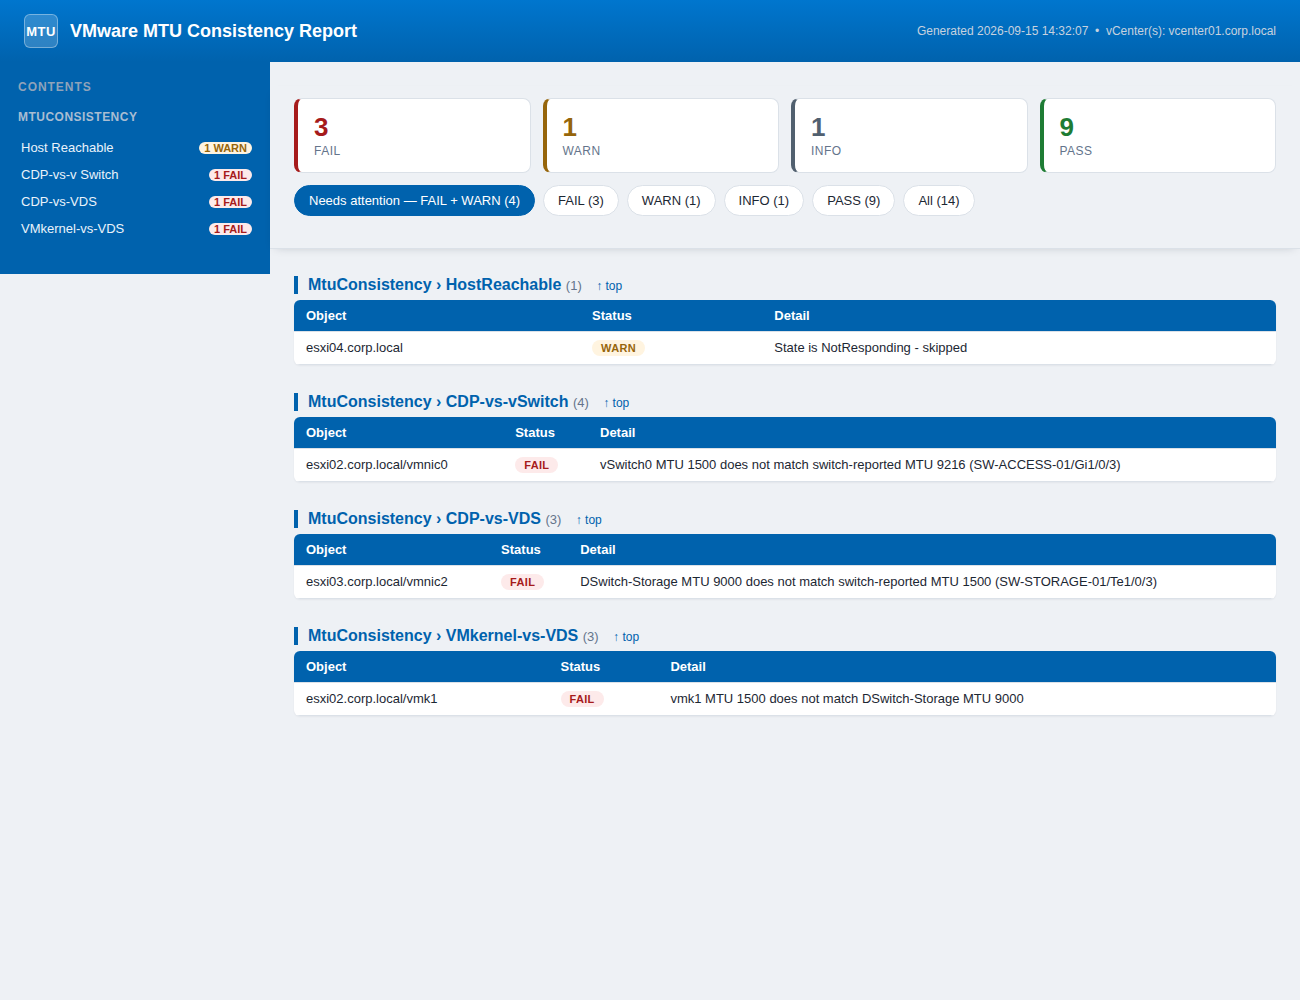
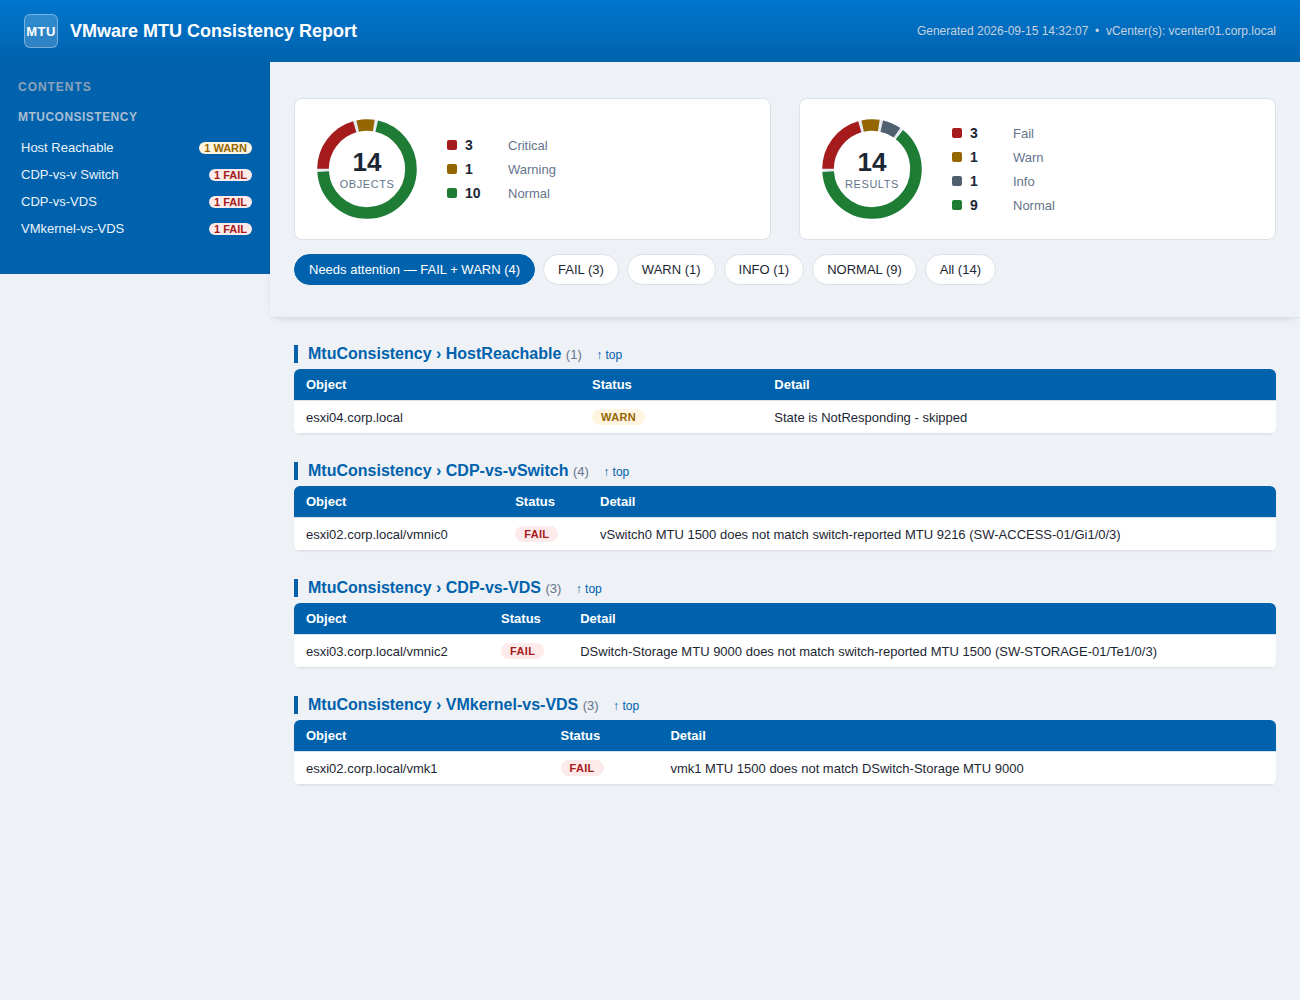
Summary rings, and PASS becomes NORMAL
Mirrors the OpenManage Enterprise inventory view: two rings at the top of the
report instead of four flat tiles.

  Objects  every host, VM, datastore and cluster rolled up to one health
           state - Critical if anything about it fails, Warning if anything
           warns, Normal otherwise
  Results  every row by severity

Each ring's legend carries the exact numbers and is clickable, so it doubles
as the severity filter exactly as the tiles did. Three object buckets, not
four: an "Unknown" slice would only ever catch an object whose every row was
informational, which reads as an empty mystery rather than as information.

PASS is now NORMAL throughout - status value, badge, filter button, CSV
column. "Normal" describes a state; "Pass" describes a test result, and this
is a report about the state of an estate. This changes the CSV, so anything
trending on the old value needs updating. The test runner's own PASS/FAIL
output is untouched - that is the harness reporting on itself, not a report
status, and conflating the two was the trap in this rename.

--- Colour, measured ----------------------------------------------------

--warn moves #96650b -> #946600. Against --crit the old pair measured
deltaE 14.9 for normal vision, under the 15 floor - "hard to tell apart even
with full colour vision" - which did not matter much on separated badges but
does when the two sit adjacent on a ring. The new value clears it at 15.4
[…]

Changed region(s): [[0.2154, 0.248, 0.9846, 0.775], [0.2154, 0.093, 0.4615, 0.217], [0.4923, 0.093, 0.8308, 0.217]]

diff --git a/README.md b/README.md
@@ -75,7 +75,7 @@ is supposed to have and each host's actual settings are compared against it in
 
 Either one is a `WARN`, and the detail shows what the host actually has *and*
 what was expected, side by side, so the fix is obvious from the report alone.
-An exact match is a `PASS` reading `(matches expected baseline)`. With a baseline
+An exact match is a `NORMAL` reading `(matches expected baseline)`. With a baseline
 supplied, a host with **nothing** configured is a `FAIL` rather than a `WARN` —
 you've declared a collector is required, and the requirement is entirely unmet.
 
@@ -145,7 +145,7 @@ does and what leaving it off costs you, rather than reporting a bare acronym:
   power-ons that would eat into that reserve. `WARN` when disabled, because HA is
   then enabled but reserving nothing — VMs from a failed host may fail to restart
   if the remaining hosts are already committed. This is an easy one to miss: HA
-  reads as `PASS` while the capacity to honor it isn't guaranteed.
+  reads as `NORMAL` while the capacity to honor it isn't guaranteed.
 - **DRS** (Distributed Resource Scheduler) — balances VM load across hosts using
   vMotion. `WARN` when disabled, and a separate `DRSAutomation` `WARN` when DRS is
   on but not `FullyAutomated`, since it then only *recommends* migrations and
@@ -153,7 +153,7 @@ does and what leaving it off costs you, rather than reporting a bare acronym:
 - **Host count** — `WARN` on a single-host cluster, where HA has nowhere to fail over.
 
 **EVC (Enhanced vMotion Compatibility).** Reported as `INFO`, not a finding.
-`PASS` with the cluster's current mode (e.g. `intel-broadwell`) when one is set;
+`NORMAL` with the cluster's current mode (e.g. `intel-broadwell`) when one is set;
 `INFO` when it isn't. EVC masks each host's CPU down to a common baseline
 instruction set so a running VM can vMotion between hosts with different CPU
 generations without the guest OS seeing the CPU change mid-flight — without it,
@@ -203,7 +203,7 @@ they cost no extra API calls:
 **Local account password expiration.** Reads `Security.PasswordMaxDays`, the
 host-wide maximum age a local password may reach. `WARN` at `99999` — VMware's
 shipped default and its "never expires" sentinel rather than an age anyone chose
-— or above `-PasswordMaxDaysWarn` (default 365); `PASS` below that; `INFO` if the
+— or above `-PasswordMaxDaysWarn` (default 365); `NORMAL` below that; `INFO` if the
 host doesn't report the setting. A specific account's actual days-until-expiry
 (root's included) isn't exposed by the vCenter API at all — that lives in the
 host's shadow file and needs SSH and `chage -l root` — so the detail says so
@@ -211,7 +211,7 @@ rather than implying the report has checked it.
 
 **ESXi build vs. vCenter build.** VMware only supports ESXi hosts within roughly two
 major versions behind vCenter, and a host *newer* than vCenter is unsupported outright
-and can break management features. `PASS` when a host's version matches vCenter's
+and can break management features. `NORMAL` when a host's version matches vCenter's
 exactly; `WARN` on a minor version difference; `FAIL` when a host is newer than
 vCenter, or more than `-HostVersionSkewFailMajors` (default 2) major versions behind
 it. No extra vCenter round-trip is needed — the connection object from
@@ -257,7 +257,7 @@ after itself, and easy to miss since it's a separate flag from the `Snapshot` ch
 above (a VM can need consolidation with no visible snapshot in the UI). Left alone,
 these silently consume growing datastore space.
 
-Findings are tagged `PASS` / `WARN` / `FAIL` / `INFO`. The script never modifies configuration.
+Findings are tagged `NORMAL` / `WARN` / `FAIL` / `INFO`. The script never modifies configuration.
 
 **Runtime.** Inventory is read in **bulk**: one `Get-View` per object type per
 vCenter, rather than a cmdlet call per host, per LUN and per VM. A run against
@@ -272,7 +272,7 @@ state, so a host with 40 LUNs alone was 45+ round-trips.
 | ~150 VMs | well under a minute |
 | 500+ VMs | a minute or two |
 
-Add ~10-30s for the initial PowerCLI module import. As long as `PASS`/`WARN` lines keep printing, it's working — not hung.
+Add ~10-30s for the initial PowerCLI module import. As long as `NORMAL`/`WARN` lines keep printing, it's working — not hung.
 
 **Output.** Everything printed to the console is also written to two timestamped files in `-ReportPath` (**defaults to the current directory** if not specified):
 
@@ -305,9 +305,19 @@ while `-Command` parses arguments properly but collapses any non-zero script exi
 powershell.exe -Command "& { .\HealthCheck\Invoke-VMwareHealthCheck.ps1 -VCenter vc1,vc2; exit $LASTEXITCODE }"
 ```
 
-The HTML report uses a **dashboard-style layout** — a Dell-blue header bar, with the sidebar, table headers and links all drawn from that same blue, and status pill badges (`PASS`/`WARN`/`FAIL`/`INFO`), similar in feel to a Dell iDRAC or OpenManage console. Color-coded **stat tiles** at the top (Fail / Warn / Info / Pass counts) are clickable and double as the severity filter. The tiles and the filter buttons together **stay frozen at the top of the page** like a spreadsheet header row, so every count and filter stays reachable from anywhere in a long report instead of forcing a scroll back up — shown alongside the same **`Needs attention`, `FAIL`, `WARN`, `INFO`, `PASS`, `All`** filter buttons — the report opens pre-filtered to `FAIL` + `WARN` (what needs fixing), so you can drill straight to the problems instead of scrolling past everything that passed.
+The HTML report uses a **dashboard-style layout** — a Dell-blue header bar, with the sidebar, table headers and links all drawn from that same blue, and status pill badges (`NORMAL`/`WARN`/`FAIL`/`INFO`), similar in feel to a Dell iDRAC or OpenManage console. Two **summary rings** sit at the top, the way an inventory console shows them:
+one for **objects** — every host, VM, datastore and cluster rolled up to a single
+health state (Critical if anything about it fails, Warning if anything warns,
+Normal otherwise) — and one for **results**, every row by severity. Each ring's
+legend carries the exact counts and is clickable, so it doubles as the severity
+filter. The rings and the filter buttons together **stay frozen at the top of the
+page** like a spreadsheet header row, so every count and filter stays reachable
+from anywhere in a long report — alongside the same **`Needs attention`, `FAIL`,
+`WARN`, `INFO`, `NORMAL`, `All`** filter buttons — and the report opens
+pre-filtered to `FAIL` + `WARN` (what needs fixing), so you can drill straight to
+the problems instead of scrolling past everything that's fine.
 
-Results are also broken into **per-check sections** (e.g. *VMware Tools*, *Hardware Version*, *Mounted ISOs*, *Snapshots*, *NTP*, *Datastore Free*), each in its own table. The left **sidebar** lists every section grouped by category, with `FAIL`/`WARN` badges marking where the problems are — the **whole row is the link**, name and badges alike. Check names are spaced out there (`Certificate Expiry`, not `CertificateExpiry`) so the narrow column wraps at word boundaries; section headings keep the raw name, matching the CSV. Severity filtering and section navigation work together: under a filter, sections with no matching rows are hidden automatically — **and so are their sidebar entries**, so a report opened on `Needs attention` lists only what needs attention rather than every check that ran. `INFO` and `PASS`-only sections (host `Uptime`, for instance) stay out of the way until you click the `INFO` or `PASS` button to bring them back, so nothing reads as an alert that isn't one. Clicking a sidebar entry whose section is hidden reveals **just that section** — it does not drop the whole report back to `All`. (The CSV stays complete and unfiltered for trending; open it in Excel and use AutoFilter on the Status column for the same effect.)
+Results are also broken into **per-check sections** (e.g. *VMware Tools*, *Hardware Version*, *Mounted ISOs*, *Snapshots*, *NTP*, *Datastore Free*), each in its own table. The left **sidebar** lists every section grouped by category, with `FAIL`/`WARN` badges marking where the problems are — the **whole row is the link**, name and badges alike. Check names are spaced out there (`Certificate Expiry`, not `CertificateExpiry`) so the narrow column wraps at word boundaries; section headings keep the raw name, matching the CSV. Severity filtering and section navigation work together: under a filter, sections with no matching rows are hidden automatically — **and so are their sidebar entries**, so a report opened on `Needs attention` lists only what needs attention rather than every check that ran. `INFO` and `NORMAL`-only sections (host `Uptime`, for instance) stay out of the way until you click the `INFO` or `NORMAL` button to bring them back, so nothing reads as an alert that isn't one. Clicking a sidebar entry whose section is hidden reveals **just that section** — it does not drop the whole report back to `All`. (The CSV stays complete and unfiltered for trending; open it in Excel and use AutoFilter on the Status column for the same effect.)
 
 **Sample report** (fictional lab data):
 
@@ -350,7 +360,7 @@ For every host, compares MTU across three layers per network path and flags wher
 - That same vSwitch/VDS vs. the **MTU reported by the physically connected switch port** (via CDP)
 - Untrusted/self-signed vCenter certificates are accepted by default (`-TrustAllCertificates`); pass `-TrustAllCertificates:$false` to require a valid chain.
 
-If CDP is disabled, or the connected switch only speaks LLDP, the CDP-vs-switch checks report `INFO` instead of guessing at a `PASS`/`FAIL`. Findings are tagged `PASS` / `WARN` / `FAIL` / `INFO`; the script never modifies configuration.
+If CDP is disabled, or the connected switch only speaks LLDP, the CDP-vs-switch checks report `INFO` instead of guessing at a `NORMAL`/`FAIL`. Findings are tagged `NORMAL` / `WARN` / `FAIL` / `INFO`; the script never modifies configuration.
 
 **Output.** Like the other reports, results are written to two timestamped files in `-ReportPath` (**defaults to the current directory**): `VMwareMtuConsistencyCheck-<yyyyMMdd-HHmmss>.html` and `.csv`, both with the columns **Category, Object, Check, Status, Detail**, produced in a `finally` block even if the run errors. The HTML report opens pre-filtered to `FAIL` + `WARN` with the same clickable status buttons and per-check sections as the health check.
 
